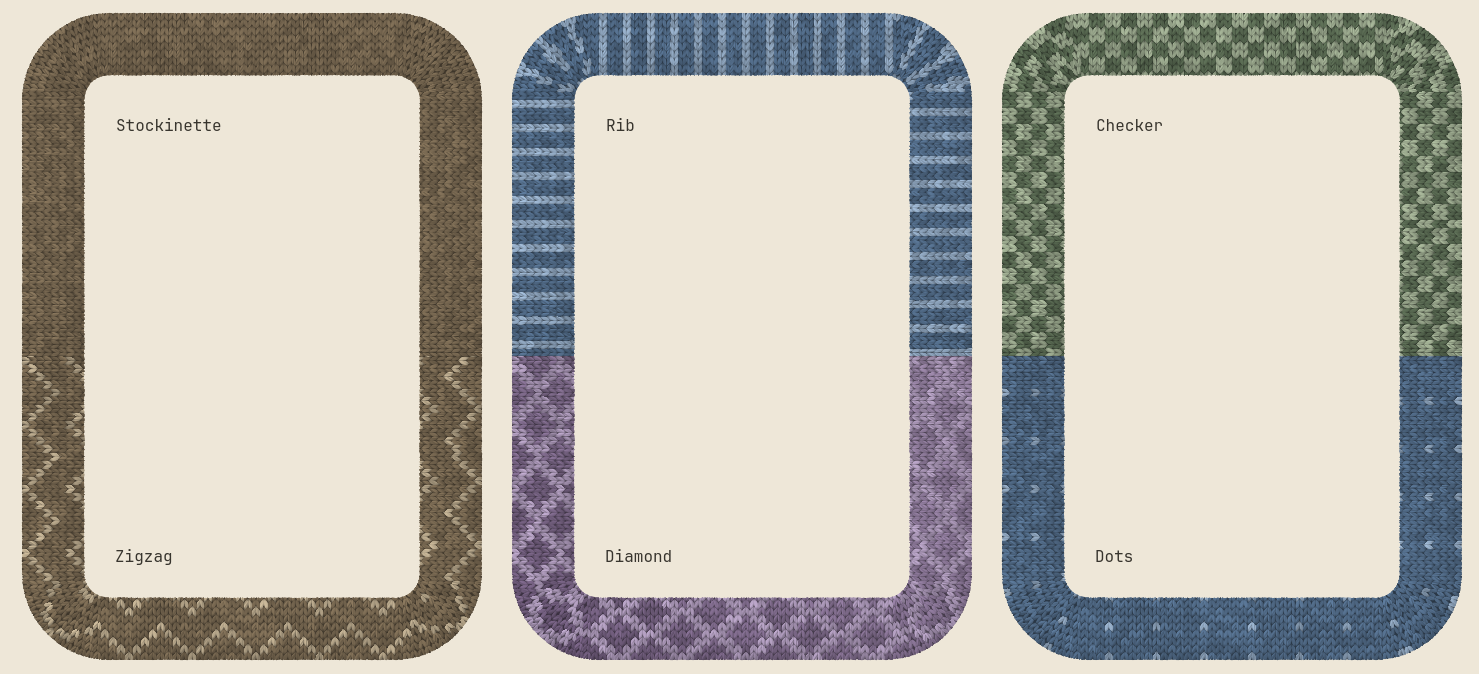
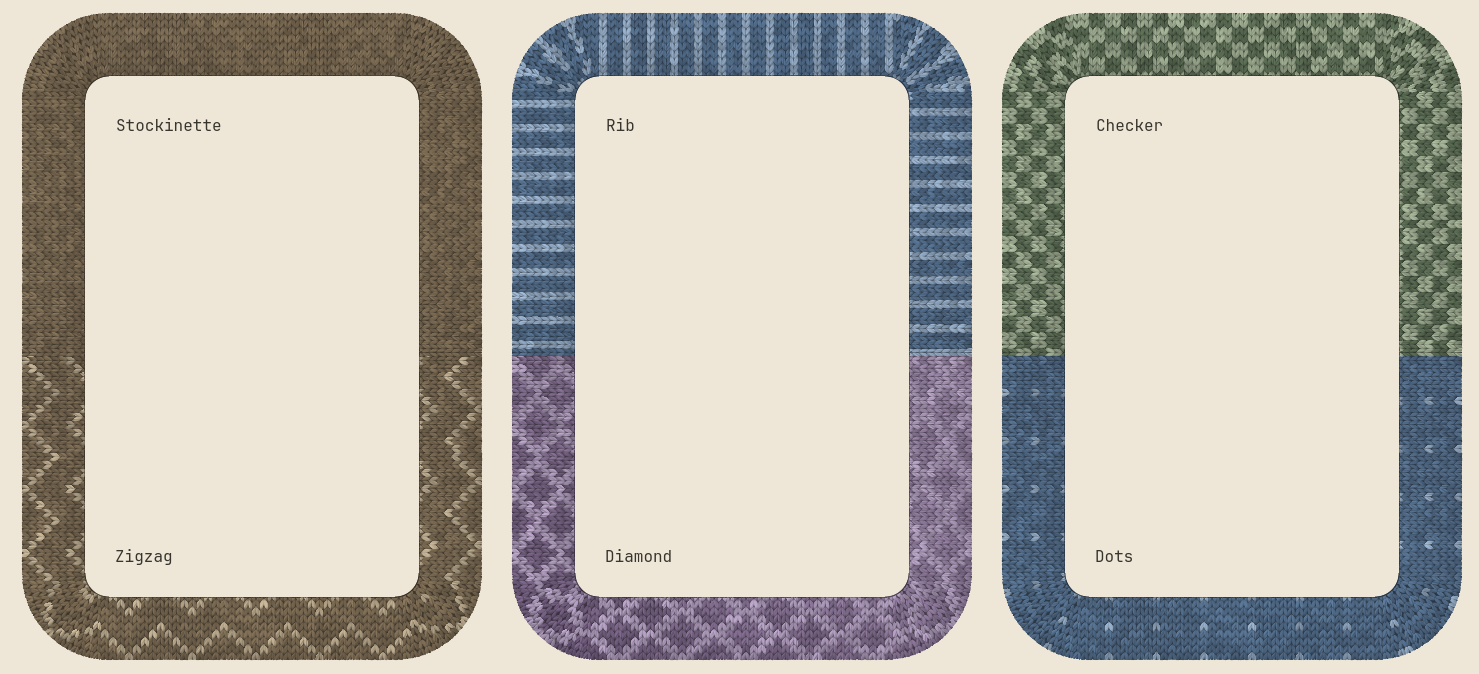
docs: update images

diff --git a/tools/visual-generator/src/main.rs b/tools/visual-generator/src/main.rs
@@ -941,7 +941,7 @@ fn compose_hero(renderer: &mut GlesRenderer, output: &Path) -> anyhow::Result<()
             win.loc,
             win.size,
             CornerRadius::from(INNER_RADIUS),
-            2.,
+            0.,
             win.interior,
         ));
         elements.extend(

diff --git a/README.md b/README.md
@@ -19,7 +19,7 @@
 
 ## In action
 
-[![A desktop with app-specific knitted borders](docs/assets/knit-desktop.webp)](docs/assets/knit-desktop.webp)
+[![A desktop with app-specific knitted borders](docs/assets/knit-desktop.png)](docs/assets/knit-desktop.png)
 
 [Example configuration](resources/knit-preview.kdl)
 
